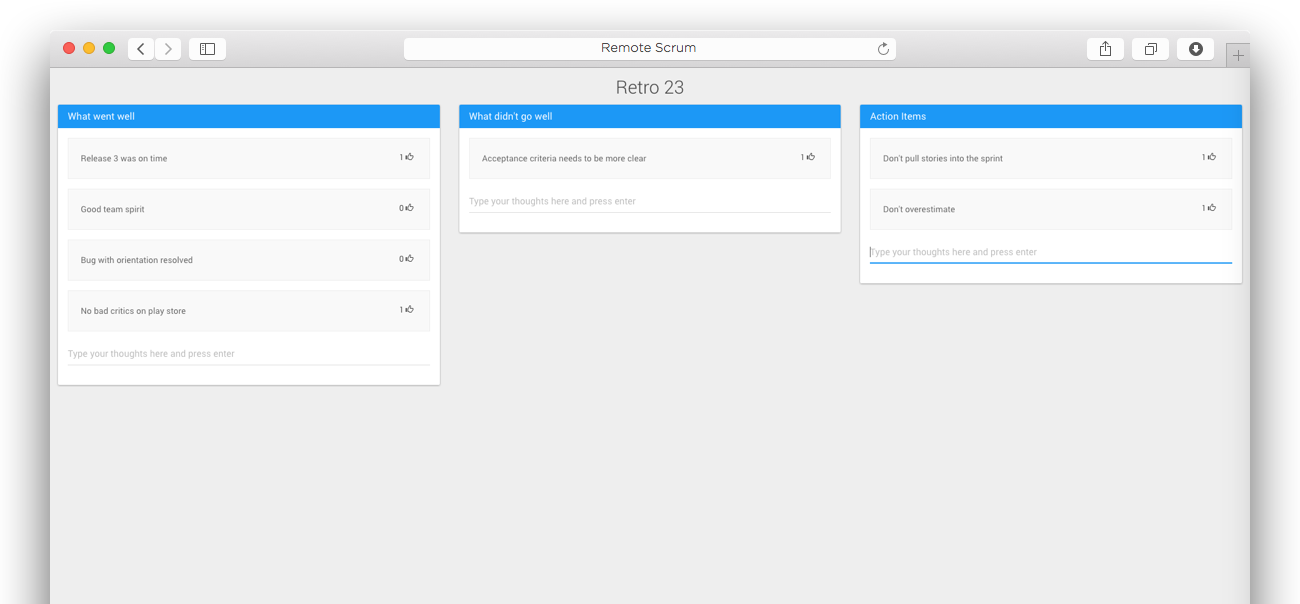
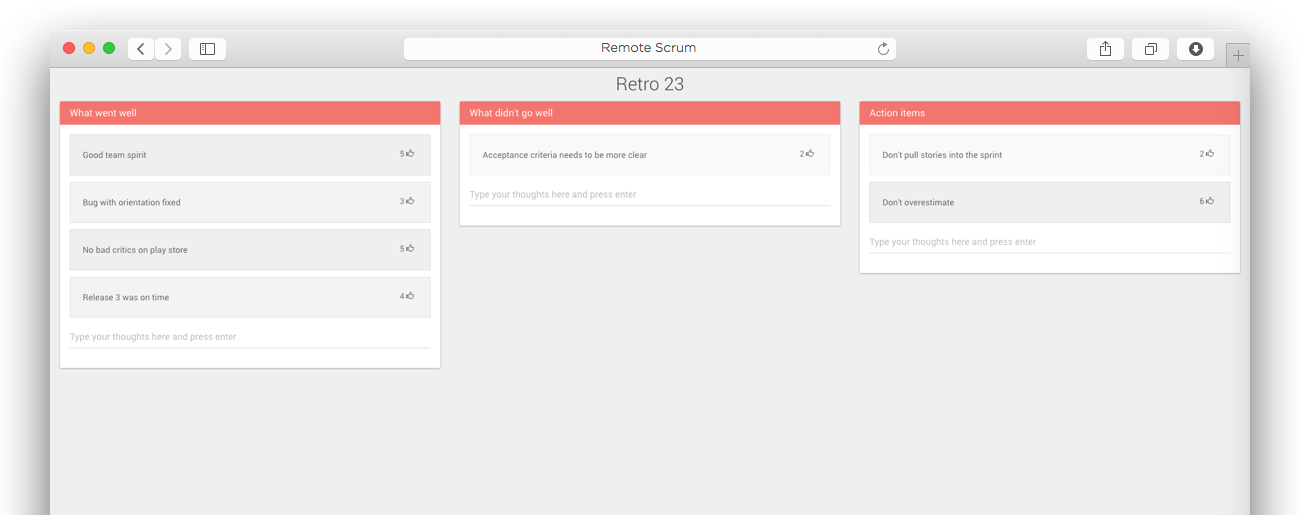
Brand updated to pink

diff --git a/client/app/sprints/sprints.html b/client/app/sprints/sprints.html
@@ -44,7 +44,7 @@
                     </div>
                 </div>
                 <div class="modal-footer">
-                    <button type="button" class="btn btn-success saveSprint">Create Sprint</button>
+                    <button type="button" class="btn btn-info saveSprint">Create Sprint</button>
                 </div>
             </div>
         </div>
@@ -66,7 +66,7 @@
                 </div>
                 <div class="modal-footer">
                     <button type="button" class="btn btn-danger pull-left btn-sm deleteSprint">Delete Sprint</button>
-                    <button type="button" class="btn btn-success updateSprint">Save changes</button>
+                    <button type="button" class="btn btn-info updateSprint">Save changes</button>
                 </div>
             </div>
         </div>

diff --git a/client/app/scss/_variables.scss b/client/app/scss/_variables.scss
@@ -17,11 +17,14 @@ $gray-lighter:           lighten($gray-base, 93.5%) !default; // #eee
 
 // #4aa3df
 // #785EDD
-$brand-primary:         #2196F3 !default;
-$brand-success:         #4CAF50 !default;
-$brand-info:            #3498DB !default;
-$brand-warning:         #ff9800 !default;
-$brand-danger:          #c0392b !default;
+// #f3756f
+// #2196F3
+
+$brand-primary:         #f3756f !default;
+$brand-success:         #56BC63 !default;
+$brand-info:            #458D94 !default;
+$brand-warning:         #F3AD6F !default;
+$brand-danger:          #AE2B24 !default;
 
 
 //== Scaffolding

diff --git a/client/app/feedback-modal/feedback-modal.html b/client/app/feedback-modal/feedback-modal.html
@@ -11,7 +11,7 @@
                         <textarea class="form-control feedback-textarea" rows="3" placeholder="Please write your thoughts here"></textarea>
                     </div>
                     <div class="modal-footer">
-                        <button type="submit" class="btn btn-success">Send feedback</button>
+                        <button type="submit" class="btn btn-info">Send feedback</button>
                     </div>
                 </form>
             </div>

diff --git a/client/app/board/board.html b/client/app/board/board.html
@@ -57,7 +57,7 @@
                 </div>
                 <div class="modal-footer">
                     <button type="button" class="btn btn-danger pull-left btn-sm deleteNote">Remove note</button>
-                    <button type="button" class="btn btn-success saveNote">Save changes</button>
+                    <button type="button" class="btn btn-info saveNote">Save changes</button>
                 </div>
             </div>
         </div>

diff --git a/client/app/layouts/main.html b/client/app/layouts/main.html
@@ -1,6 +1,6 @@
 <head>
     <title> Remote Scrum </title>
-    <link rel="icon" sizes="16x16 32x32" href="/favicon.ico?v=5">
+    <link rel="icon" sizes="16x16 32x32" href="/favicon.ico?v=6">
     <meta name="apple-mobile-web-app-status-bar-style" content="black">
     <meta name="apple-mobile-web-app-capable" content="yes">
     <meta name="viewport" content="width=device-width; initial-scale=1.0; maximum-scale=1.0; user-scalable=0;" />
